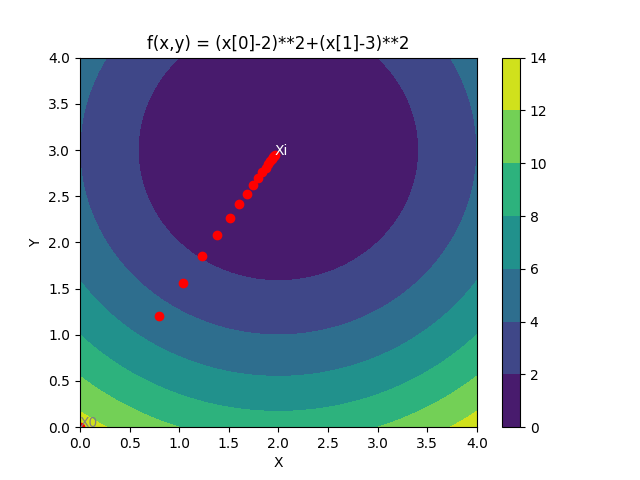
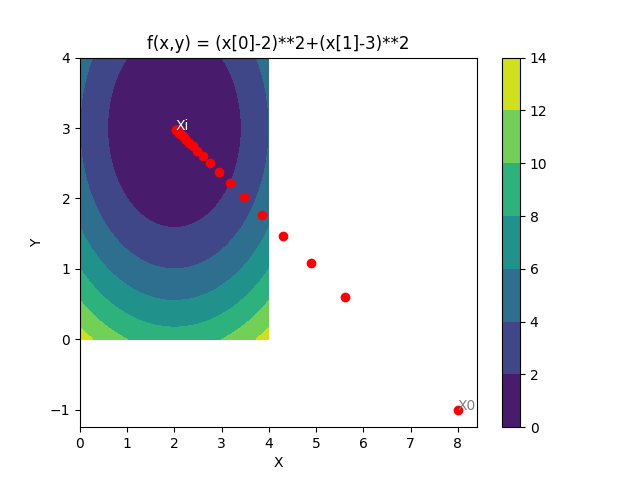
added selecting constraints from gui list

diff --git a/main.py b/main.py
@@ -6,8 +6,8 @@ import numpy as np
 import sympy as sympy
 from sympy import *
 
-def func(x, x_values, mu):
-    return eval(values["-WZOR-"])-funcPolkole(x_values)*mu
+def func(x, x_values, mu, funcOgraniczenia):
+    return eval(values["-WZOR-"])-funcOgraniczenia(x_values)*mu
 
 def funcKolo(x):
     # KOLO (O SRODKU W PUNKCIE (2,3) i PROMIENIU 1)
@@ -35,12 +35,12 @@ def stopDokladnosc(x0, x_new, i):
 
 
 
-def getGrad(x0, mu):
+def getGrad(x0, mu, funcOgraniczenia):
     f_variables = list(sympy.symbols(' '.join('x%d' % i for i in range(x0.size))))
     grad_fx = []
     subs = assign_values_in_point(f_variables, x0)
     for variable in f_variables:
-        grad_fx.append(diff(func(f_variables, [x0.item(0), x0.item(1)], mu), variable).evalf(subs=subs))
+        grad_fx.append(diff(func(f_variables, [x0.item(0), x0.item(1)], mu, funcOgraniczenia), variable).evalf(subs=subs))
     return grad_fx
 
 
@@ -87,7 +87,7 @@ def rysujWykres(punkty):
     plt.show()
 
 
-def program(x_start):
+def program(x_start, funcOgraniczenia):
     punkty = [x_start]
     h0 = np.eye(x_start.size)
     i = 0
@@ -99,7 +99,7 @@ def program(x_start):
         # pobierz punkt
         x0 = punkty[i]
         # obliczenie gradientu w punkcie
-        grad_f_x0 = getGrad(x0, mu)
+        grad_f_x0 = getGrad(x0, mu, funcOgraniczenia)
         # kierunek spadku
         d = np.multiply(learning_rate, np.dot(h0, grad_f_x0))
 
@@ -111,7 +111,7 @@ def program(x_start):
 
 
         # DFP
-        grad_f_x_new = getGrad(x_new, mu)
+        grad_f_x_new = getGrad(x_new, mu, funcOgraniczenia)
         q = np.subtract(grad_f_x_new, grad_f_x0)  # y
         p = np.subtract(x_new, x0)  # k
         h0 = h0 + p.reshape([x0.size, 1]) * p / np.dot(p, q) \
@@ -140,7 +140,7 @@ layout = [
     [simpleGui.InputText("1.5 2.5", key="-X0-", size=(5, 1))],
 
     [simpleGui.Text("Obszar ograniczający:")],
-    [simpleGui.Listbox(values=["Koło", "Półkole", "Kwadrat"], key="-STOP-", size=(20, 2))],
+    [simpleGui.Listbox(values=["Koło", "Półkole", "Kwadrat"], key="-STOP-", size=(20, 3))],
 
     [simpleGui.Text(key="-KOMUNIKAT-", size=(30, 1))],
     [simpleGui.Button("Szukaj minimum", key="-OK-")]
@@ -163,9 +163,9 @@ while True:
         x_start = values["-X0-"].split()
         x_start = [float(i) for i in x_start]
         if values["-STOP-"][0] == "Koło":
-            warunekStopu = funcKolo
-        elif values["-STOP-"][1] == "Półkole":
-            warunekStopu = funcPolkole
+            funcOgraniczenia = funcKolo
+        elif values["-STOP-"][0] == "Półkole":
+            funcOgraniczenia = funcPolkole
         else:
-            warunekStopu = funcKwadrat
-        program(np.matrix(x_start, dtype=float))
+            funcOgraniczenia = funcKwadrat
+        program(np.matrix(x_start, dtype=float), funcOgraniczenia)
